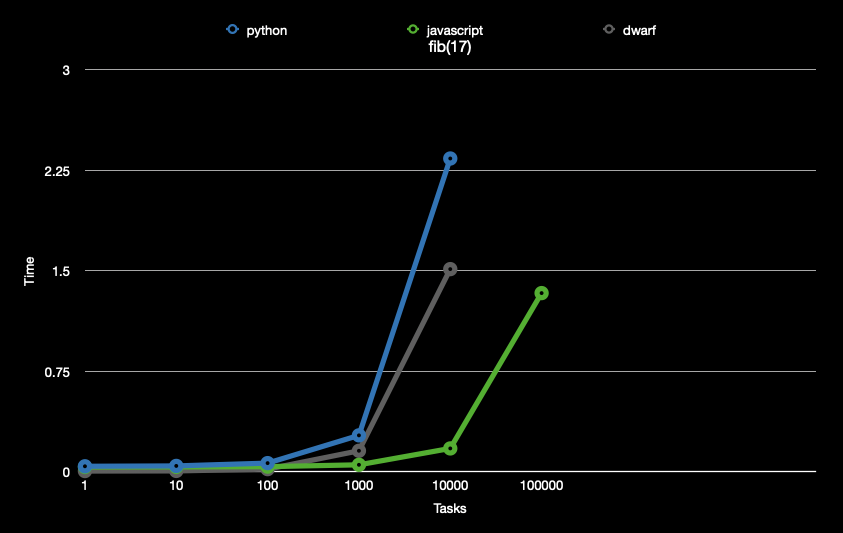
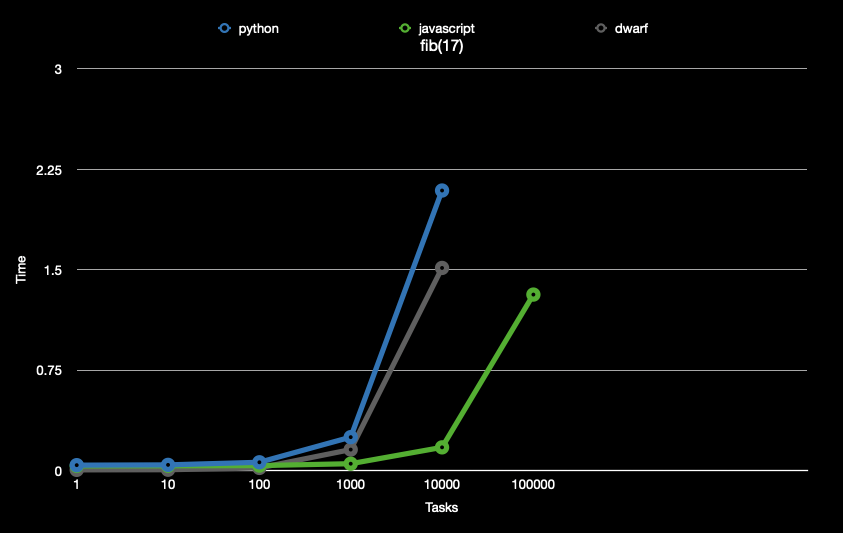
first draft -- update fib times

diff --git a/_posts/2024-03-04-dwarf-vs-splat.md b/_posts/2024-03-04-dwarf-vs-splat.md
@@ -135,12 +135,12 @@ The exception being when there is only one task, and the work is above the start
 This is easy to see for one task doing 10 million iterations.
 This makes sense, given that Python is a lot faster than dwarf.
 
-> At a minimum, dwarf performa work 1.4 times faster than Python.*
+> At a minimum, dwarf performs work 1.4 times faster than Python.*
 
 Python starts up really slowly, so it's speed advantage only comes into play at 1 million iterations with *one* task, where it's got a 5% advantage.
 At 10 million iterations, Python is 5 times faster than dwarf.
 However, beyond one iteration, dwarf is up to 10 times faster.
-dwarf however acheives this with 12 cores, while Python runs on only one.
+dwarf however achieves this with 12 cores, while Python runs on only one.
 At the minimum, when a large enough amount of work is being done, dwarf is 1.4 times faster than Python.
 
 In both graphs it's interesting to see the symmetry across work and task count.
@@ -150,6 +150,7 @@ This is perhaps not surprising, given that work ⨉ task count is linear, and we
 
 For fib, I used the naive recursive implementation to burn some CPU cycles.
 Perhaps more importantly we gain an insight into how long it takes to call a function in each language.
+This is also a decent test of comparison and addition operations.
 
 #### Code
 
@@ -160,10 +161,7 @@ fn fib(n: int) -> int {
     if n <= 1 {
         n
     } else {
-        let a = fib(n - 1);
-        let b = fib(n - 2);
-        
-        a + b
+        fib(n - 1) + fib(n - 2);
     }
 }
 ```
@@ -175,12 +173,10 @@ def fib(n):
     if n <= 1:
         return n
     else:
-        a = fib(n-1)
-        b = fib(n-2)
-        return a + b
+        return fib(n-1) + fib(n-2)
 ```
 
-Javascript is no different. 
+Javascript is no different.
 
 ```javascript
 function fibonacci(n) {
@@ -188,19 +184,24 @@ function fibonacci(n) {
         return n;
     }
 
-    const fib1 = fibonacci(n - 1);
-    const fib2 = fibonacci(n - 2);
-
-    return fib1 + fib2;
+    return fibonacci(n - 1) + fibonacci(n - 2);
 ```
 
 #### Results
+
+The story is pretty much the same as far as JavaScript is concerned.
+It dominates Fibonacci running 13.3 times faster than Python and 11,6 times faster than dwarf.
+dwarf at 100 tasks is 1.2 times faster than Python.
 
 ##### dwarf vs JavaScript vs Python -- fib(28)
 
 ![dwarf vs. All: fib(28)](/assets/images/dwarf-vs/dwarf-v-all-fib-28.png)
 
 ##### dwarf vs JavaScript vs Python -- fib(17)
+
+This is exactly the same as above, but for calculating the 17th Fibonacci number.
+The results are generally similar to the 28th Fibonacci number.
+There is a larger gap between dwarf and Python, and a smaller gap with JavaScript.
 
 ![dwarf vs. All: fib(17)](/assets/images/dwarf-vs/dwarf-v-all-fib-17.png)
 
@@ -320,7 +321,7 @@ fn fib(n: int) -> int {
     } else {
         let a = fib(n - 1);
         let b = fib(n - 2);
-        
+
         a + b
     }
 }
@@ -354,9 +355,7 @@ def fib(n):
     if n <= 1:
         return n
     else:
-        a = fib(n-1)
-        b = fib(n-2)
-        return a + b
+        return fib(n-1) + fib(n-2)
 
 async def main():
     j = 28
@@ -379,10 +378,7 @@ function fibonacci(n) {
         return n;
     }
 
-    const fib1 = fibonacci(n - 1);
-    const fib2 = fibonacci(n - 2);
-
-    return fib1 + fib2;
+    return fibonacci(n - 1) + fibonacci(n - 2);
 }
 
 async function runFibonacciFunctions(times) {
